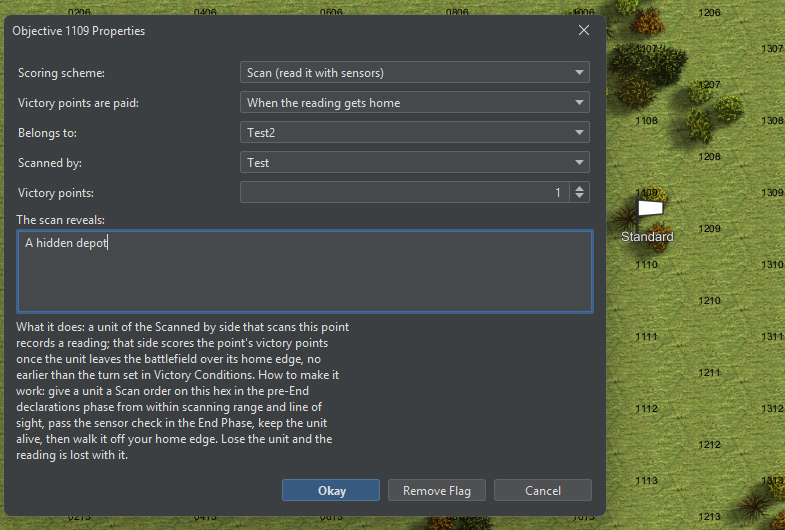
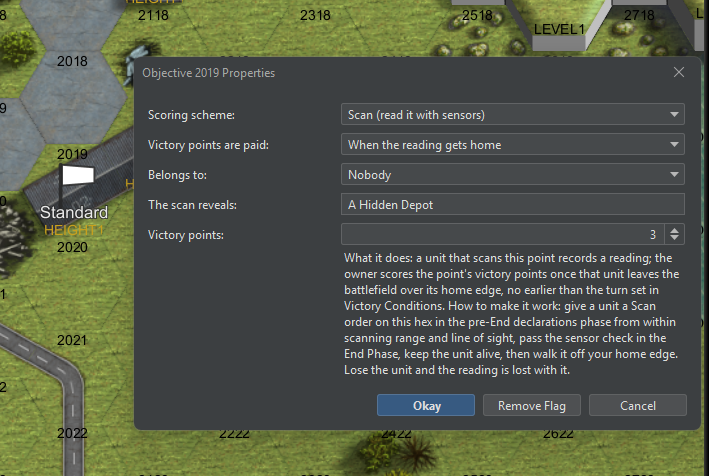
Replace the Scan step screenshots with a Raven scanning a building
Claude-Session: https://claude.ai/code/session_01XnkqqzYedTaiFmtMGKrKAf

diff --git a/_posts/2026-10-27-Feature Highlight Objectives and Victory Points.md b/_posts/2026-10-27-Feature Highlight Objectives and Victory Points.md
@@ -722,7 +722,7 @@ Each tab follows one thread of Reyes's battle from the story at the top: who pla
         <div class="tab-pane fade show active" id="scan-setup" role="tabpanel" aria-labelledby="scan-setup-tab" tabindex="0">
           <div class="scan-step">
             <div class="scheme-shot">
-              <img src="{{ '/assets/images/posts/2026/2026-10-27-objectives-and-victory-points/scanning/1_setup.png' | relative_url }}" alt="The Scan point properties dialog: paid when the reading gets home, Belongs to Test2, Scanned by Test, 1 victory point, and &quot;A hidden depot&quot; in the scan reveals box" width="785" height="530" loading="lazy" />
+              <img src="{{ '/assets/images/posts/2026/2026-10-27-objectives-and-victory-points/scanning/1_setup.png' | relative_url }}" alt="The Scan point properties dialog on a building: paid when the reading gets home, belongs to nobody, &quot;A Hidden Depot&quot; in the scan reveals box, 3 victory points" width="709" height="476" loading="lazy" />
             </div>
             <div class="scheme-text">
               <h4>1. Set up</h4>
@@ -730,7 +730,7 @@ Each tab follows one thread of Reyes's battle from the story at the top: who pla
                 <p>Low along the riverbank, ECM up, keeping to the trees. A Raven is small and hard to pin down on their screens, and that's all the armor it really has. If they see me before I see them, this is a very short night.</p>
                 <footer>&mdash; Sergeant Okafor, to himself</footer>
               </blockquote>
-              <p>Scouts stay until turn 5. Reyes places a Scan point on the warehouse at the heart of the yard for her own side to read: 3 points, paid <em>When the reading gets home</em>. In <strong>The scan reveals</strong> goes what Okafor will find: "It's the yard. A dozen 'Meks on the gantries." Nobody else can read that until his scan succeeds. The screenshots in these steps show the same thing in a test game.</p>
+              <p>Scouts stay until turn 5. Reyes places a Scan point on the warehouse at the heart of the yard for her own side to read: 3 points, paid <em>When the reading gets home</em>. In <strong>The scan reveals</strong> goes what Okafor will find: "It's the yard. A dozen 'Meks on the gantries." Nobody else can read that until his scan succeeds. The screenshots show the same steps with a Raven scanning a building in a test game.</p>
               <pre><code>Gbxllm droo xszmtv gsv dzb blf kozb - Szmw lu Hgziormt</code></pre>
             </div>
           </div>
@@ -738,7 +738,7 @@ Each tab follows one thread of Reyes's battle from the story at the top: who pla
         <div class="tab-pane fade" id="scan-order" role="tabpanel" aria-labelledby="scan-order-tab" tabindex="0">
           <div class="scan-step">
             <div class="scheme-shot">
-              <img src="{{ '/assets/images/posts/2026/2026-10-27-objectives-and-victory-points/scanning/2_scan.png' | relative_url }}" alt="A light Mek beside a Scan point, labelled JAMMED and SCANNING, with a sensor sweep to the flag labelled SCANNED" width="530" height="335" loading="lazy" />
+              <img src="{{ '/assets/images/posts/2026/2026-10-27-objectives-and-victory-points/scanning/2_scan.png' | relative_url }}" alt="A Raven RVN-3L labelled SCANNING, with a sensor sweep arcing to a Scan point on a building, labelled SCANNED" width="780" height="533" loading="lazy" />
             </div>
             <div class="scheme-text">
               <h4>2. The scan</h4>
@@ -753,7 +753,7 @@ Each tab follows one thread of Reyes's battle from the story at the top: who pla
         <div class="tab-pane fade" id="scan-reveal" role="tabpanel" aria-labelledby="scan-reveal-tab" tabindex="0">
           <div class="scan-step">
             <div class="scheme-shot">
-              <img src="{{ '/assets/images/posts/2026/2026-10-27-objectives-and-victory-points/scanning/3_reveal.png' | relative_url }}" alt="The End Phase report: the scan succeeds, needing 5 and rolling 6, then &quot;The scan reveals: A hidden depot&quot;" width="527" height="184" loading="lazy" />
+              <img src="{{ '/assets/images/posts/2026/2026-10-27-objectives-and-victory-points/scanning/3_reveal.png' | relative_url }}" alt="The End Phase report: the Raven scans the building and succeeds, needing 1 with its active probe and rolling 8, then &quot;The scan reveals: A Hidden Depot&quot;" width="770" height="189" loading="lazy" />
             </div>
             <div class="scheme-text">
               <h4>3. The reveal</h4>
